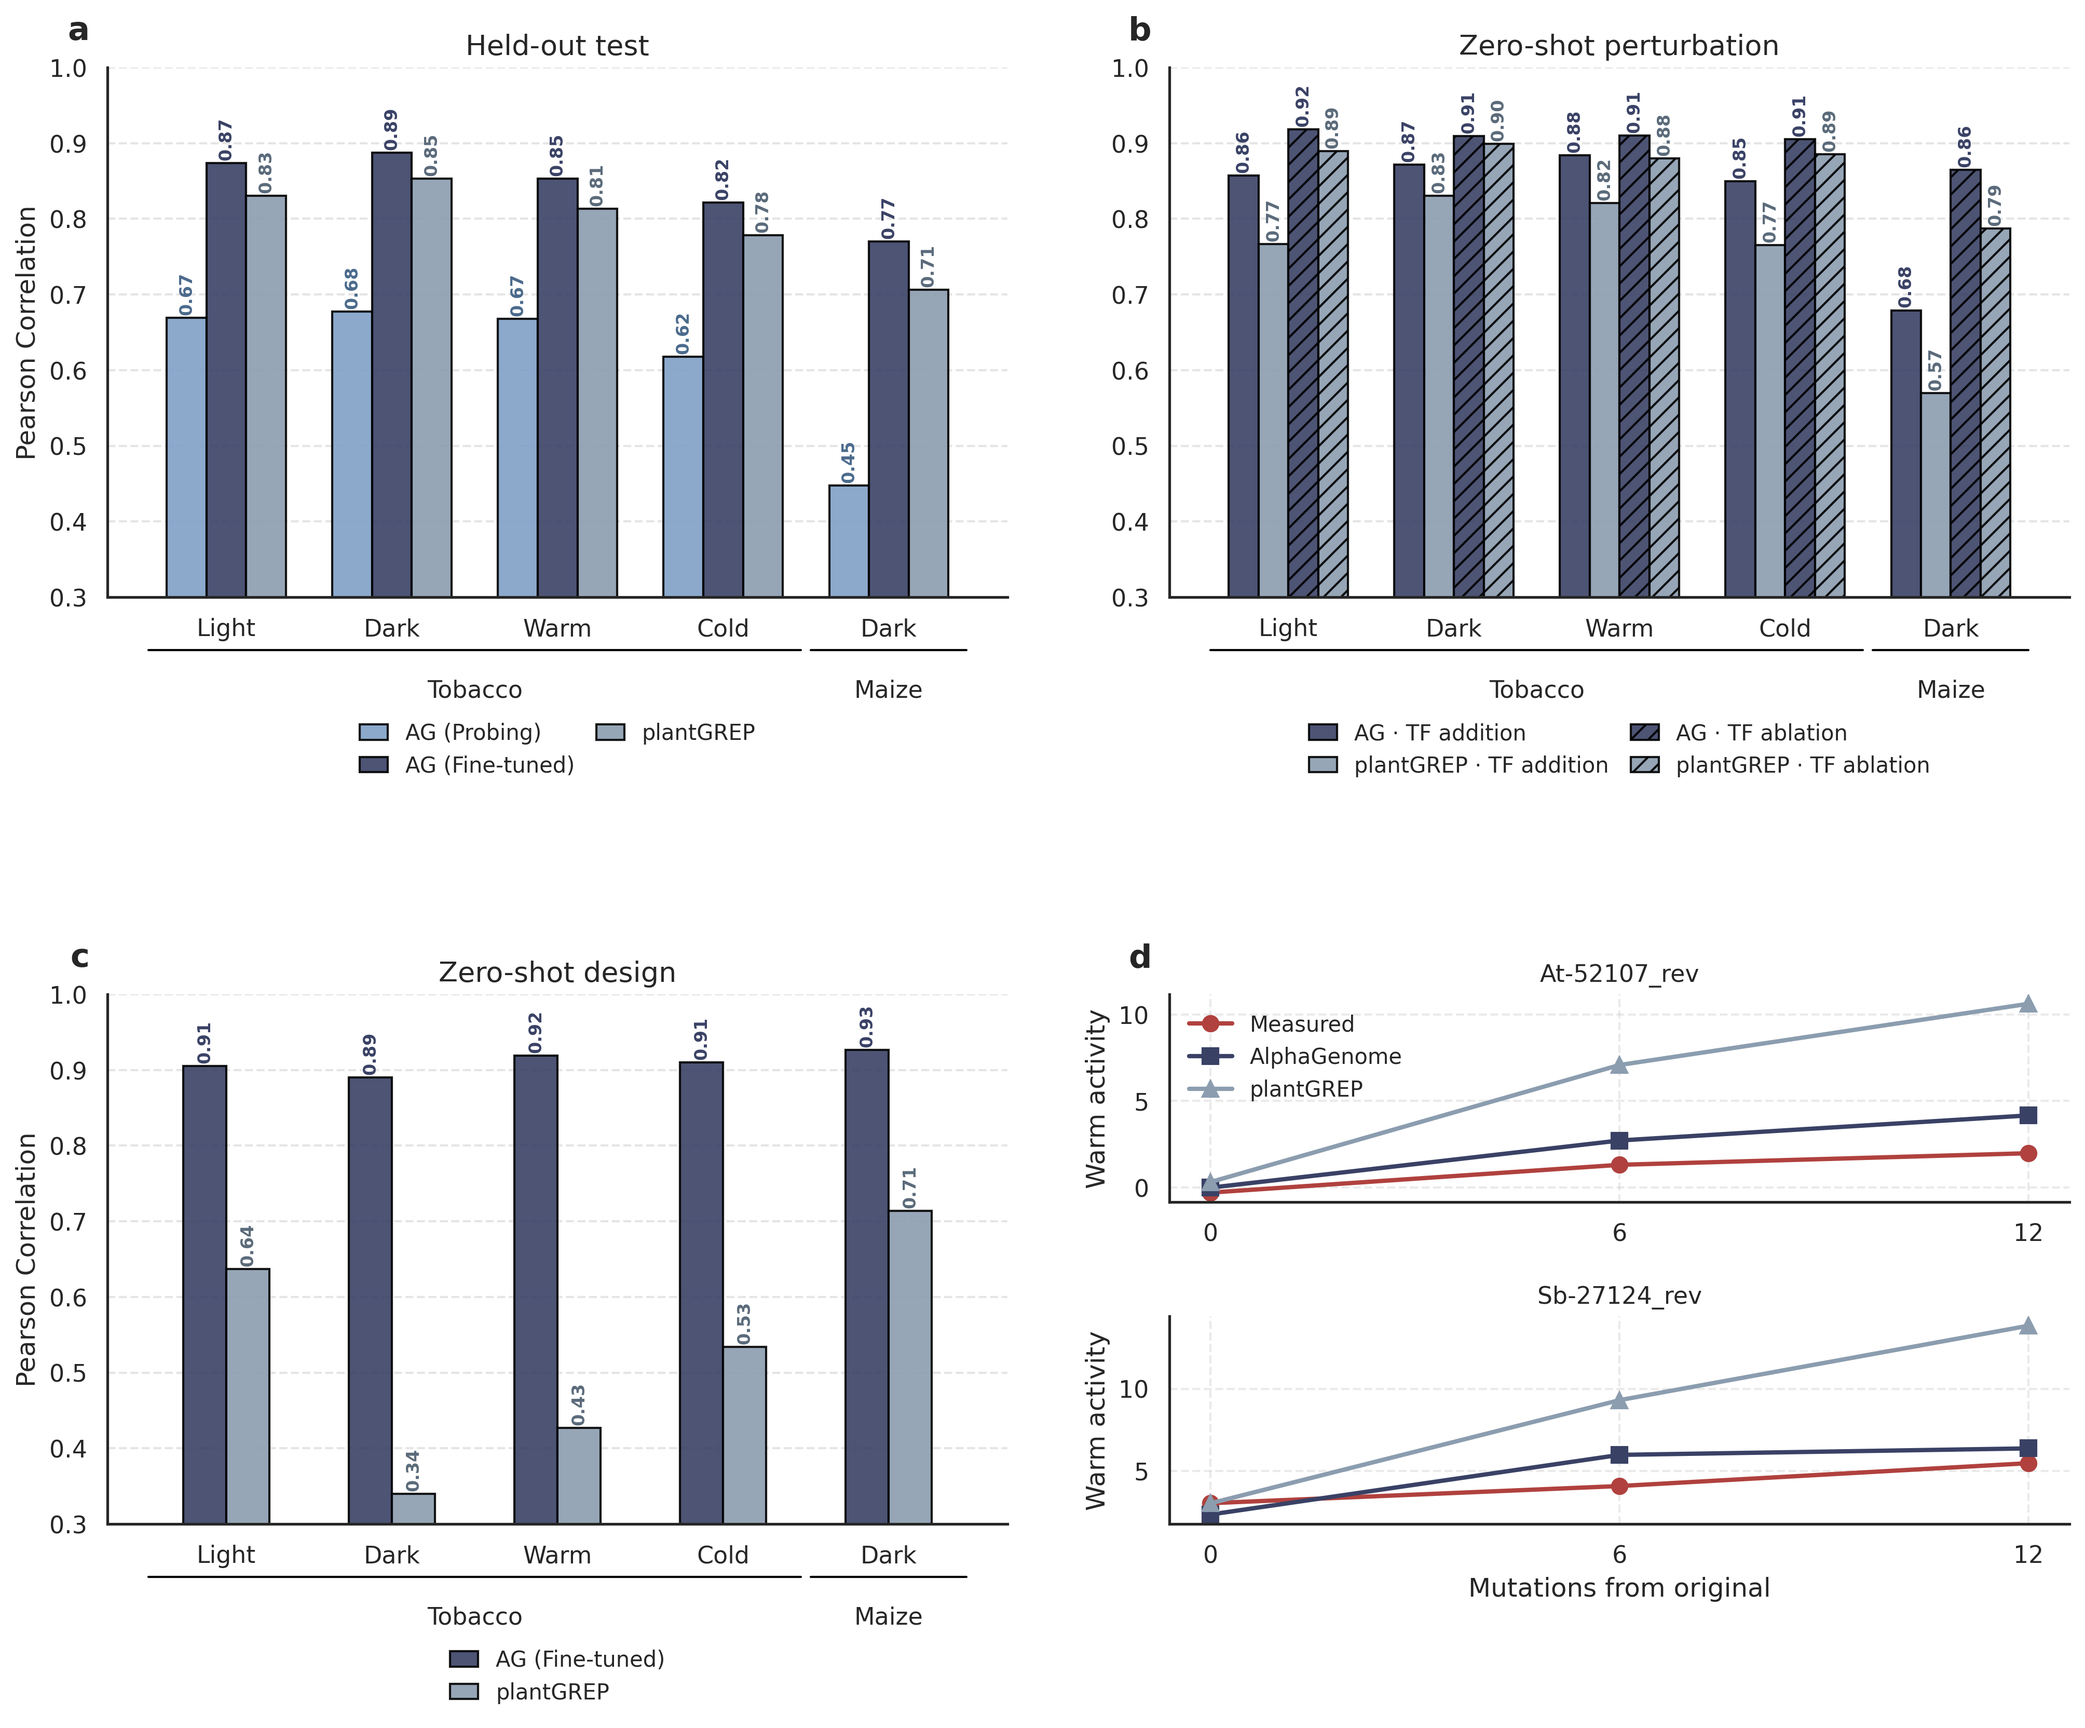
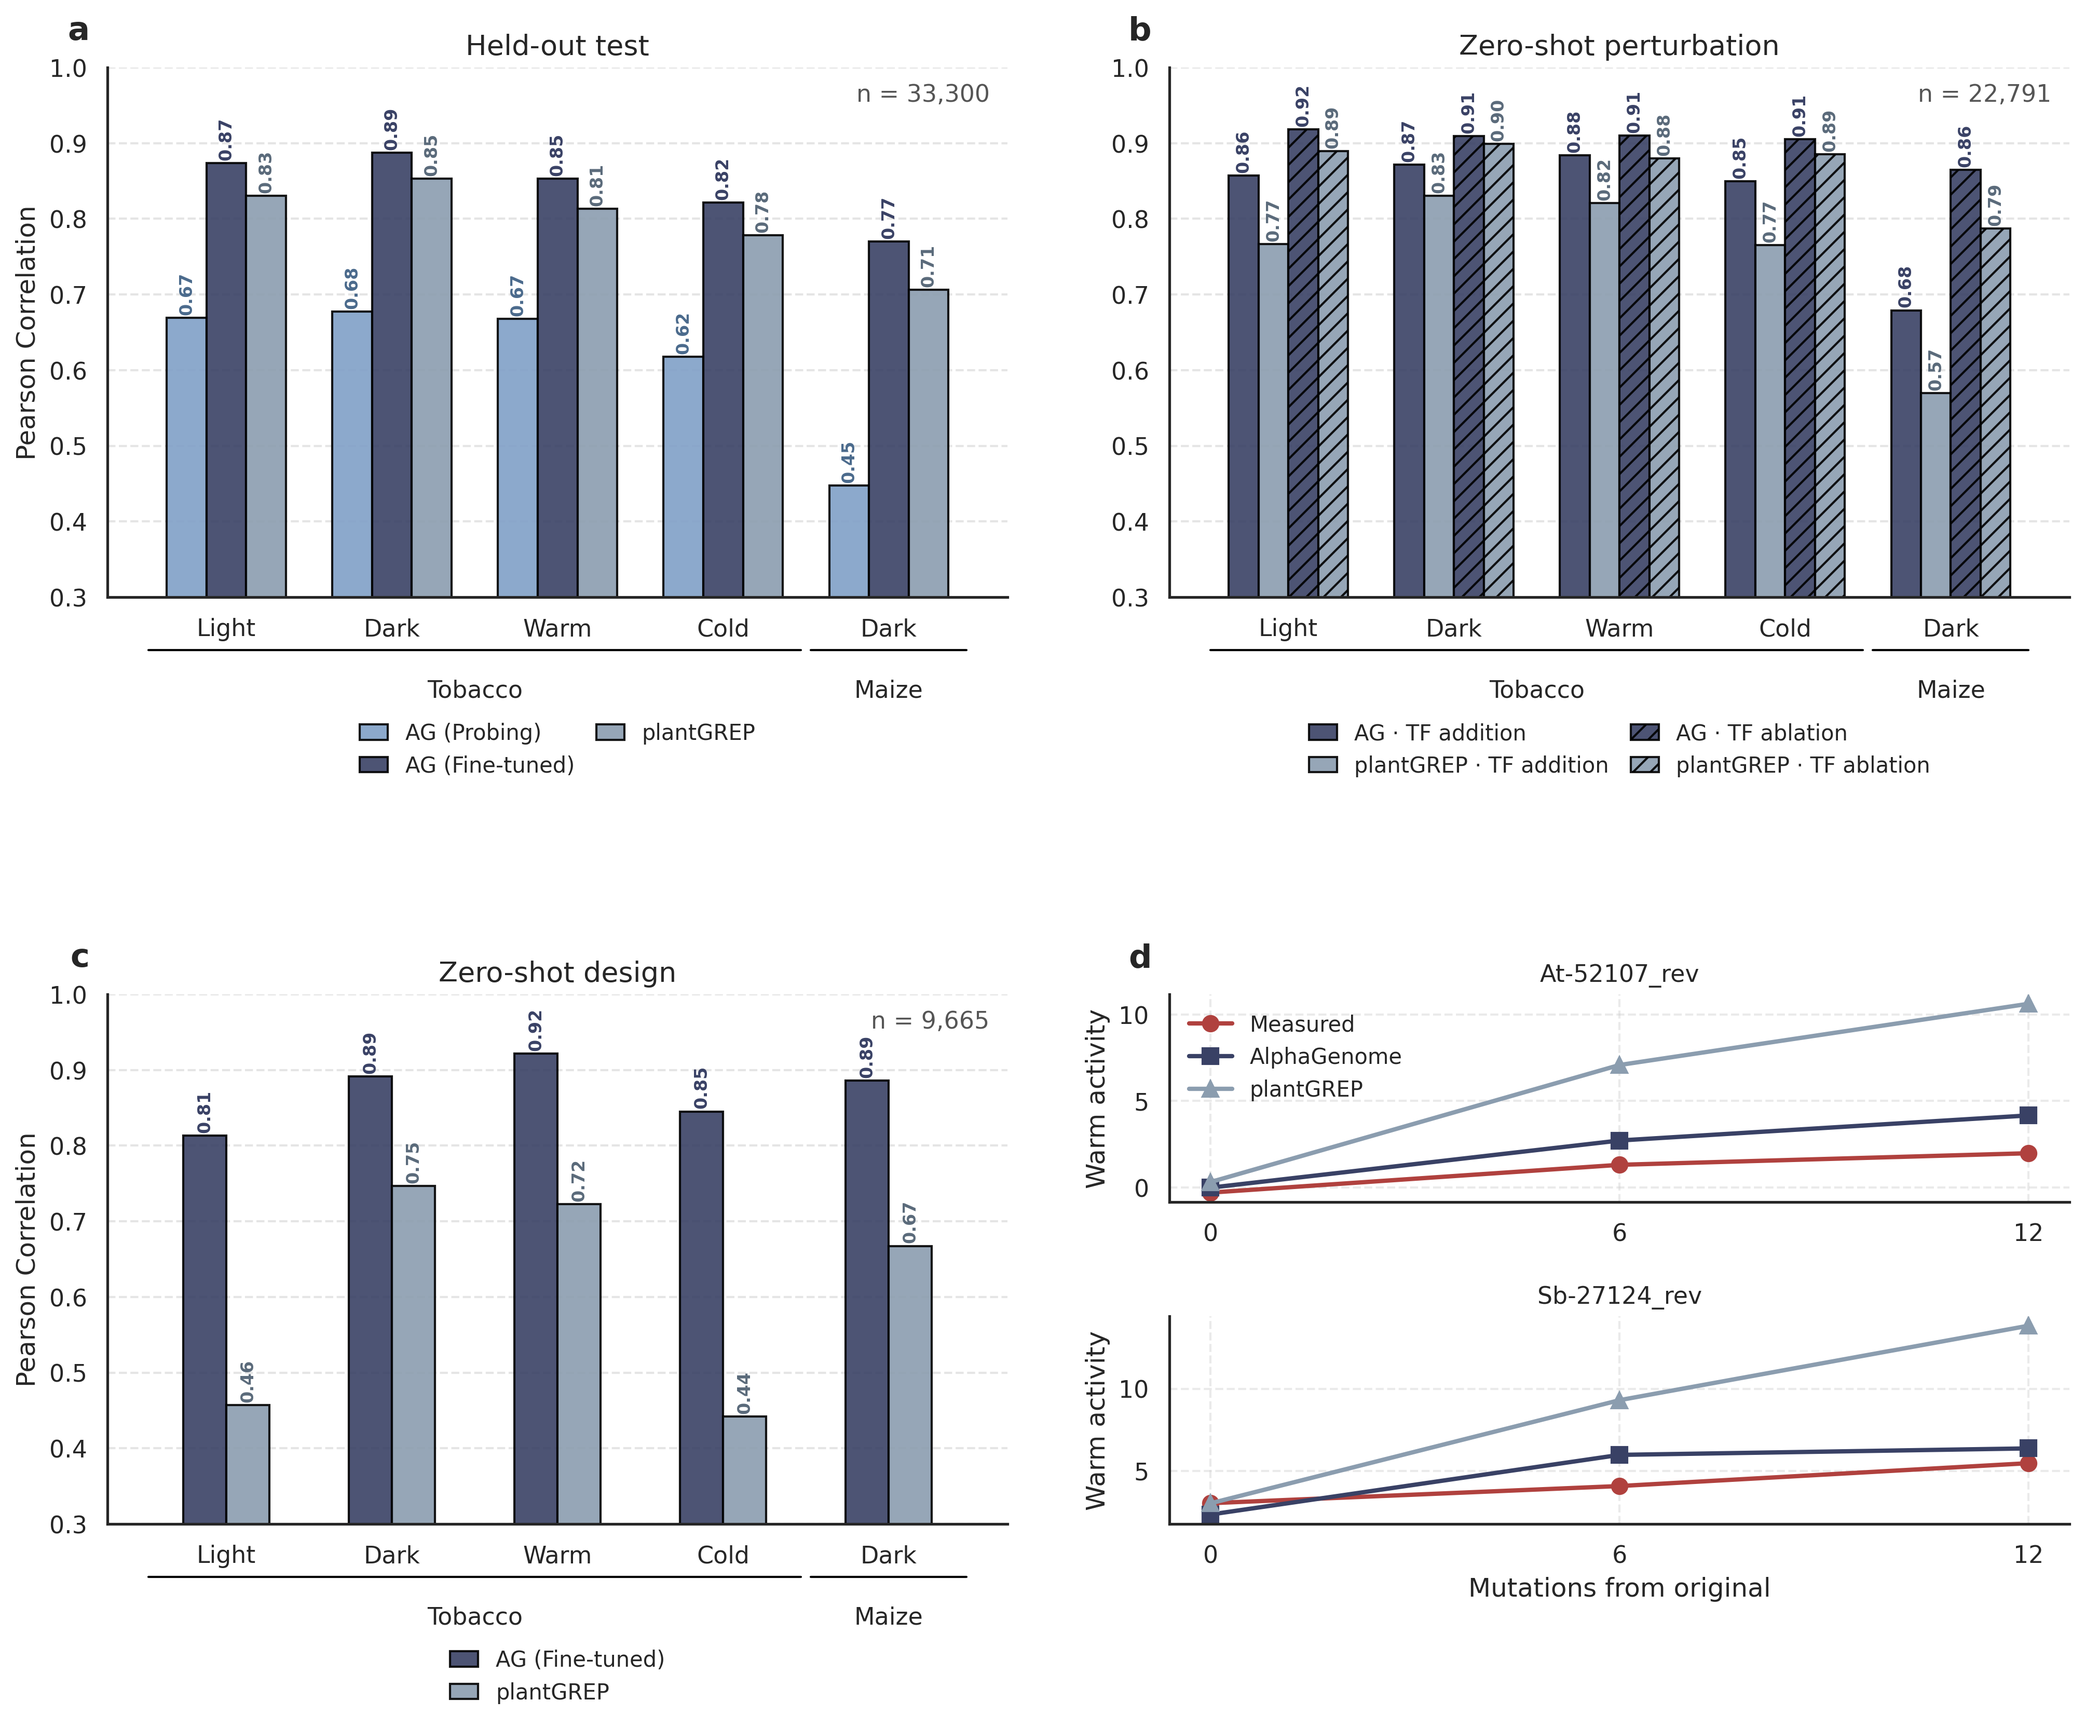
Fix panel c to on-target (by-objective) design eval; add n to panels a-c

diff --git a/scripts/plot_jores_multicondition_benchmark_results.py b/scripts/plot_jores_multicondition_benchmark_results.py
@@ -50,21 +50,23 @@ MEASURED_COLOR = "#B0413E"                    # brick red — distinct from AG n
 # Each bar: (label, colour, hatch, reference file, nested path above per_condition).
 # In (b), addition and ablation share the model colour and differ only by hatch, and are
 # kept adjacent within each model so they are easy to compare.
+# (letter, title, n_samples, bars). Design (c) uses the by-objective eval: each
+# condition scored only on the sequences evolved for it (on-target).
 PANELS = [
-    ("a", "Held-out test", [
+    ("a", "Held-out test", 33300, [
         ("AG (Probing)",     AG_LIGHT, None, "test_probing.json",   ()),
         ("AG (Fine-tuned)",  AG_DARK,  None, "test_finetuned.json", ()),
         ("plantGREP",        PG_DARK,  None, "pgrep_test.json",      ()),
     ]),
-    ("b", "Zero-shot perturbation", [
+    ("b", "Zero-shot perturbation", 22791, [
         ("AG · TF addition",        AG_DARK, None, "category_eval.json", ("perturbation", "insertion")),
         ("plantGREP · TF addition", PG_DARK, None, "pgrep_category.json", ("perturbation", "insertion")),
         ("AG · TF ablation",        AG_DARK, "///", "category_eval.json", ("perturbation", "shuffling")),
         ("plantGREP · TF ablation", PG_DARK, "///", "pgrep_category.json", ("perturbation", "shuffling")),
     ]),
-    ("c", "Zero-shot design", [
-        ("AG (Fine-tuned)", AG_DARK, None, "evolution_only.json", ()),
-        ("plantGREP",       PG_DARK, None, "pgrep_evolution.json", ()),
+    ("c", "Zero-shot design", 9665, [
+        ("AG (Fine-tuned)", AG_DARK, None, "evolution_by_objective.json", ()),
+        ("plantGREP",       PG_DARK, None, "pgrep_evolution_by_objective.json", ()),
     ]),
 ]
 
@@ -110,19 +112,21 @@ def _species_axis(ax):
                 va="top", fontsize=fs)
 
 
-def _draw_bar_panel(ax, letter, title, bars_spec):
+def _draw_bar_panel(ax, letter, title, n_samples, bars_spec):
     x = np.arange(len(CONDITIONS))
-    n = len(bars_spec)
-    width = min(0.26, 0.72 / n)
+    n_bars = len(bars_spec)
+    width = min(0.26, 0.72 / n_bars)
     for i, (label, color, hatch, fname, nested) in enumerate(bars_spec):
         vals = _per_condition(fname, nested)
-        offset = (i - n / 2) * width + width / 2
+        offset = (i - n_bars / 2) * width + width / 2
         bars = ax.bar(x + offset, vals, width, label=label, color=color,
                       alpha=0.9, edgecolor="black", linewidth=1, hatch=hatch)
         _label_bars(ax, bars, vals, color)
     ax.set_title(title, fontsize=TITLE_FS)
     ax.text(-0.02, 1.04, letter, transform=ax.transAxes, fontsize=LETTER_FS,
             fontweight="bold", va="bottom", ha="right")
+    ax.text(0.98, 0.97, f"n = {n_samples:,}", transform=ax.transAxes, fontsize=TICK_FS,
+            va="top", ha="right", color="#555555")
     ax.spines["top"].set_visible(False)
     ax.spines["right"].set_visible(False)
     ax.set_xticks(x)
@@ -133,7 +137,8 @@ def _draw_bar_panel(ax, letter, title, bars_spec):
     ax.set_axisbelow(True)
     _species_axis(ax)
     ax.legend(loc="upper center", bbox_to_anchor=(0.5, -0.20), frameon=False,
-              fontsize=LEGEND_FS, ncol=1 if n <= 2 else 2, columnspacing=1.0, handlelength=1.3)
+              fontsize=LEGEND_FS, ncol=1 if n_bars <= 2 else 2, columnspacing=1.0,
+              handlelength=1.3)
 
 
 def _draw_trajectory(ax, rows, title, letter=None, show_xlabel=True, show_legend=True):
